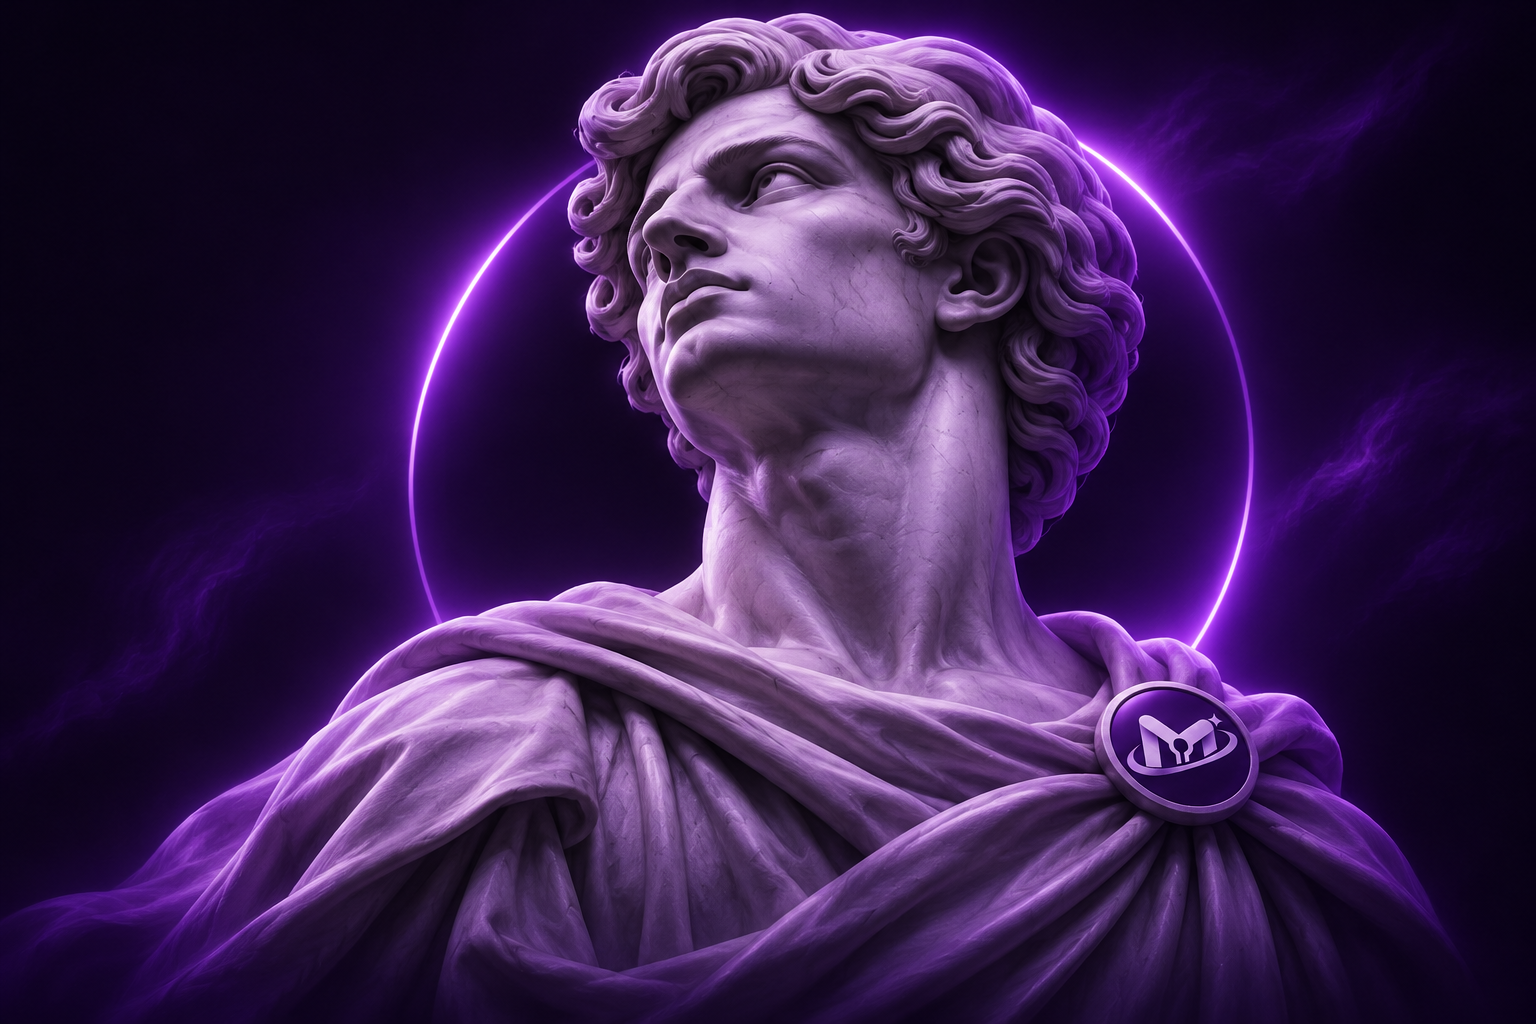
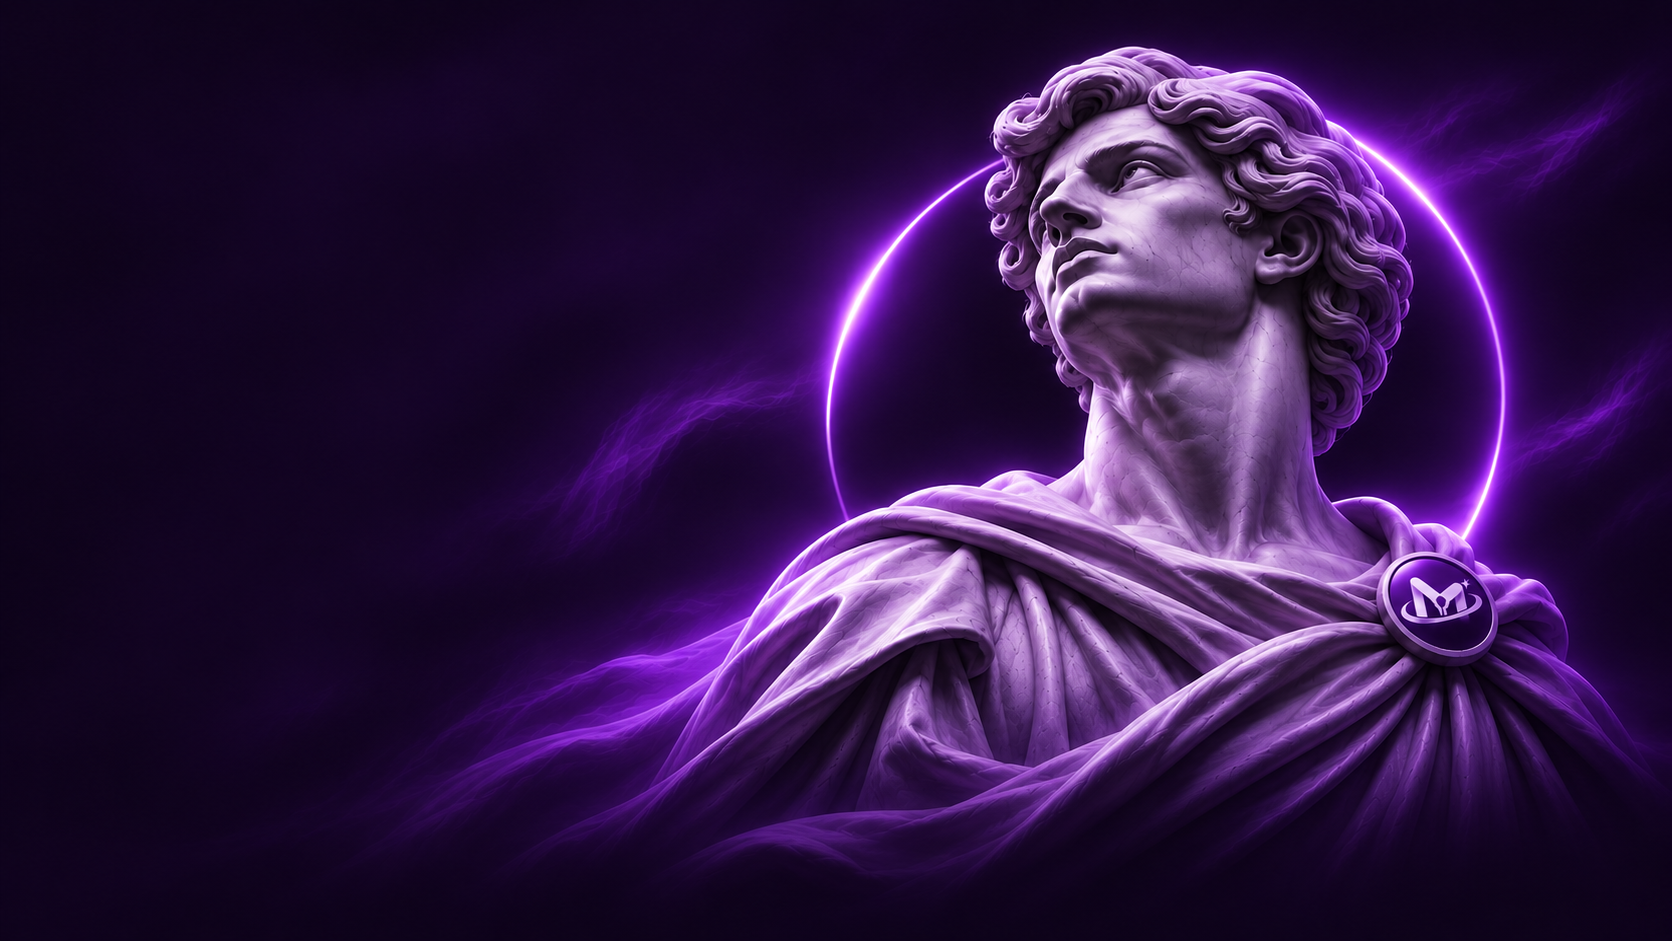
Add files via upload

diff --git a/index.html b/index.html
@@ -44,6 +44,28 @@
 .hero-statue:before{display:none}.hero-statue .wrap{min-height:620px;display:flex;align-items:center;position:relative;padding:80px 0 95px}.hero-statue .hero-content{position:relative;z-index:2;width:52%;max-width:570px}.hero-statue h1{font-family:Georgia,'Times New Roman',serif;font-size:clamp(57px,6vw,84px);font-weight:500;line-height:.99;letter-spacing:-2px;margin:26px 0 26px}.hero-statue .accent{color:#b96cff;background:none;-webkit-text-fill-color:currentColor}.hero-statue p{font-size:17px;max-width:480px;color:#c4b8d0;line-height:1.7}.hero-statue .eyebrow{color:#c98cff}.hero-statue .btn{border-radius:10px}.statue-art{position:absolute;right:-10%;top:0;bottom:0;width:76%;background:url('education-statue.png') center 30%/cover no-repeat;mask-image:linear-gradient(to right,transparent 0%,#000 29%),linear-gradient(to top,transparent 0%,#000 24%);mask-composite:intersect;-webkit-mask-image:linear-gradient(to right,transparent 0%,#000 29%);pointer-events:none;z-index:0}.hero-statue:after{content:'';position:absolute;bottom:0;left:0;right:0;height:115px;background:linear-gradient(transparent,#0c0712);pointer-events:none;z-index:1}
 @media(max-width:800px){.brand .brand-name{font-size:19px}.brand .brand-sub{font-size:8px;letter-spacing:2.5px}.brand img{width:35px;height:35px}.hero-statue .wrap{min-height:700px;display:flex;align-items:flex-start;padding:70px 0 270px}.hero-statue .hero-content{width:100%}.hero-statue h1{font-size:clamp(49px,10vw,70px)}.hero-statue p{max-width:540px}.statue-art{width:100%;height:430px;top:auto;bottom:0;right:-12%;background-position:center 20%;opacity:.76;-webkit-mask-image:linear-gradient(to bottom,transparent 0%,#000 22%,#000 70%,transparent 100%);mask-image:linear-gradient(to bottom,transparent 0%,#000 22%,#000 70%,transparent 100%)}}
 @media(max-width:480px){.hero-statue .wrap{min-height:720px;padding-top:52px}.hero-statue h1{font-size:54px}.hero-statue p{font-size:15px}.statue-art{height:390px;right:-18%;width:115%}}
+
+/* Seamless statue artwork: only hero visual is adjusted. */
+.hero-statue{background:#100819;overflow:hidden}
+.hero-statue .statue-art{
+  position:absolute;top:0;bottom:0;left:0;right:0;width:100%;height:100%;
+  background-image:url('education-statue.png');
+  background-repeat:no-repeat;background-size:cover;background-position:center 45%;
+  opacity:1;z-index:0;pointer-events:none;
+  -webkit-mask-image:linear-gradient(to right,transparent 0%,transparent 22%,rgba(0,0,0,.55) 39%,black 55%,black 86%,transparent 100%),linear-gradient(to bottom,black 0%,black 74%,transparent 100%);
+  -webkit-mask-composite:source-in;
+  mask-image:linear-gradient(to right,transparent 0%,transparent 22%,rgba(0,0,0,.55) 39%,black 55%,black 86%,transparent 100%),linear-gradient(to bottom,black 0%,black 74%,transparent 100%);
+  mask-composite:intersect;
+}
+.hero-statue .hero-content{z-index:3}
+.hero-statue:after{height:135px;background:linear-gradient(transparent,#100819)}
+@media(max-width:800px){
+ .hero-statue .statue-art{top:auto;bottom:0;left:-12%;right:auto;width:124%;height:440px;background-position:65% center;opacity:.82;
+  -webkit-mask-image:linear-gradient(to bottom,transparent 0%,black 23%,black 65%,transparent 100%),linear-gradient(to right,transparent 0%,black 12%,black 85%,transparent 100%);
+  -webkit-mask-composite:source-in;
+  mask-image:linear-gradient(to bottom,transparent 0%,black 23%,black 65%,transparent 100%),linear-gradient(to right,transparent 0%,black 12%,black 85%,transparent 100%);mask-composite:intersect}
+}
+@media(max-width:480px){.hero-statue .statue-art{left:-18%;width:136%;height:400px;background-position:65% center}}
 </style></head><body><header class="top"><div class="wrap"><a class="brand" href="#top"><img alt="Логотип NexMindX" src="logo.png"/><span class="brand-copy"><span class="brand-name">NexMind<span class="brand-x">X</span></span><span class="brand-sub">EDUCATION</span></span></a><nav><a href="#programs">Программы</a><a href="#lessons">База знаний</a><div aria-label="Language" class="language-switch" role="group"><button aria-pressed="true" data-lang="en" type="button">EN</button><span>/</span><button aria-pressed="false" data-lang="ru" type="button">RU</button></div><a class="outline" href="https://t.me/NexMindplatformBot" rel="noopener noreferrer" target="_blank">Telegram ↗</a></nav></div></header><main><section class="hero hero-statue" id="top"><div class="wrap"><div class="hero-content"><div class="eyebrow">NEXMINDX / EDUCATION</div><h1>Знания.<br/>Практика.<br/><span class="accent">Результат.</span></h1><p>Обучение работе с заказами NexMindX. Практические инструкции, понятная система и современные инструменты для повышения эффективности.</p><div class="actions"><a class="btn" href="#lessons">Начать бесплатно ↗</a><a class="btn secondary" href="#programs">Изучить программы</a></div></div><div class="statue-art" aria-hidden="true"></div></div></section><div class="subline"><div class="wrap"><span>Практическое обучение</span><span>Без видео</span><span>Доступ с любого устройства</span></div></div><section class="section wrap" id="programs"><div class="section-header"><div><div class="kicker">01 / ПРОГРАММЫ</div><h2>Выбери свой формат</h2></div><p>Базовые материалы открыты каждому. Углублённые инструкции доступны в полном курсе.</p></div><div class="grid"><article class="card"><div class="number">01 / OPEN ACCESS</div><h3>Бесплатное обучение</h3><p>Всё необходимое, чтобы понять, как устроена платформа, и подготовиться к первым заданиям.</p><ul><li>Знакомство с NexMindX</li><li>Выбор и выполнение заказов</li><li>Проверка результатов и выплаты</li><li>Правила безопасности</li></ul><div class="price">Бесплатно</div><a class="btn secondary" href="#lessons">Открыть уроки ↗</a></article><article class="card featured"><div class="number">02 / PREMIUM ACCESS</div><h3>Полный курс NexMindX</h3><p>Пошаговая практика, шаблоны и отдельный модуль о том, как ускорять работу с помощью ИИ.</p><ul><li>Разбор реальных типов заданий</li><li>Подробные инструкции и чек-листы</li><li>ИИ для ускорения выполнения</li><li>Повышение качества и эффективности</li></ul><div class="price">$30 <small>/ полный курс</small></div><a class="btn" href="https://t.me/NexMindplatformBot" rel="noopener noreferrer" target="_blank">Открыть бота для покупки ↗</a></article></div></section><section class="section wrap" id="lessons"><div class="section-header"><div><div class="kicker">02 / KNOWLEDGE BASE</div><h2>Бесплатная база знаний</h2></div><p>Выбери урок слева — материал откроется здесь же. Всё доступно без регистрации.</p></div><div class="lessons"><div class="tabs" id="tabs"><button aria-pressed="true" class="tab active" data-i="0">01 — Как работает NexMindX<small>Знакомство с платформой</small></button><button aria-pressed="false" class="tab" data-i="1">02 — Как выбрать заказ<small>Подбор заданий</small></button><button aria-pressed="false" class="tab" data-i="2">03 — Как сдать результат<small>Проверка и доработка</small></button><button aria-pressed="false" class="tab" data-i="3">04 — Как получить выплату<small>Подтверждение и реквизиты</small></button><button aria-pressed="false" class="tab" data-i="4">05 — Безопасность<small>Важные правила</small></button></div><article aria-live="polite" class="lesson" id="lesson"></article></div></section><section class="section wrap"><div class="section-header"><div><div class="kicker">03 / ПРЕИМУЩЕСТВА</div><h2>Обучение с пользой</h2></div></div><div class="features"><article class="feature"><div class="index">01 / STRUCTURE</div><h3>Чёткие инструкции</h3><p>Понятные этапы от выбора задания до отправки готового результата.</p></article><article class="feature"><div class="index">02 / AI TOOLS</div><h3>Инструменты ИИ</h3><p>В платном курсе — способы ускорять работу, проверять качество и использовать готовые промпты.</p></article><article class="feature"><div class="index">03 / PRACTICE</div><h3>Практический подход</h3><p>Примеры, шаблоны и рекомендации для более эффективной работы.</p></article></div></section><section class="section wrap"><div class="cta"><div class="kicker">NEXMINDX / TELEGRAM</div><h2>Начни с первого шага</h2><p>Открой бота, изучи доступные задания и обучение. Покупка полного курса оформляется через Telegram и подтверждается администратором после проверки оплаты.</p><a class="btn" href="https://t.me/NexMindplatformBot" rel="noopener noreferrer" target="_blank">Перейти в Telegram ↗</a></div></section></main><footer class="footer"><div class="wrap"><span>© 2026 NexMindX. Все права защищены.</span><span>Материалы платного курса предназначены для личного использования. Распространение без разрешения запрещено.</span></div></footer><script>
 const lessons=[{title:'Как работает NexMindX',body:'<p>NexMindX — платформа, где исполнители могут брать доступные заказы через Telegram-бота и отправлять результаты на проверку.</p><ol><li>Открой бота NexMindX.</li><li>Перейди в «Доступные заказы».</li><li>Изучи требования, срок и размер вознаграждения.</li><li>Бери только те задания, которые можешь выполнить качественно.</li></ol><div class="note">Количество доступных заказов и возможный заработок не гарантированы.</div>'},{title:'Как выбрать заказ',body:'<p>Перед началом работы оцени задачу и свои возможности.</p><ol><li>Открой каталог доступных заказов.</li><li>Прочитай полное описание и требования.</li><li>Оцени необходимое время и навыки.</li><li>Если всё подходит, нажми «Взять заказ».</li></ol><div class="note">Не бери задания, которые не сможешь выполнить в соответствии с требованиями.</div>'},{title:'Как сдать результат',body:'<p>Готовую работу нужно отправить через Telegram-бота.</p><ol><li>Проверь результат по требованиям заказа.</li><li>Перейди в «Мои заказы».</li><li>Выбери заказ и нажми «Отправить результат».</li><li>Отправь текст, ссылку или файл в подходящем формате.</li><li>Дождись проверки. При необходимости внеси исправления.</li></ol><div class="note">Проверяй ссылки, файлы и полноту результата перед отправкой.</div>'},{title:'Как получить выплату',body:'<p>После принятия работы бот сообщит о вознаграждении и дальнейших действиях.</p><ol><li>Дождись уведомления о принятии результата.</li><li>Ознакомься с правилами безопасности.</li><li>Укажи разрешённые платёжные реквизиты.</li><li>Дождись проверки реквизитов и фактической выплаты.</li></ol><div class="note">Никогда не отправляй CVV/CVC, PIN, банковские пароли или одноразовые коды.</div>'},{title:'Безопасность и правила',body:'<p>Работа на платформе требует ответственности и уважения к данным клиентов.</p><ol><li>Соблюдай требования каждого заказа.</li><li>Не передавай конфиденциальные данные третьим лицам.</li><li>Не выдавай чужие работы за свои.</li><li>Используй ИИ только когда это допускается условиями задания.</li><li>Не отправляй банковские пароли и коды подтверждения.</li></ol><div class="note">Соблюдай правила платформы и условия конкретного задания.</div>'}];function show(i){const item=(currentLang==='ru'?lessons:lessonsEN)[i];if(!item)return;document.getElementById('lesson').innerHTML='<div class="kicker">'+(currentLang==='ru'?'УРОК ':'LESSON ')+String(i+1).padStart(2,'0')+' / 05</div><h3>'+item.title+'</h3>'+item.body;document.querySelectorAll('.tab').forEach((b,j)=>{b.classList.toggle('active',i===j);b.setAttribute('aria-pressed',String(i===j))})}document.getElementById('tabs').addEventListener('click',e=>{const b=e.target.closest('[data-i]');if(b)show(Number(b.dataset.i))});/* language initialization below */
 </script><script>
